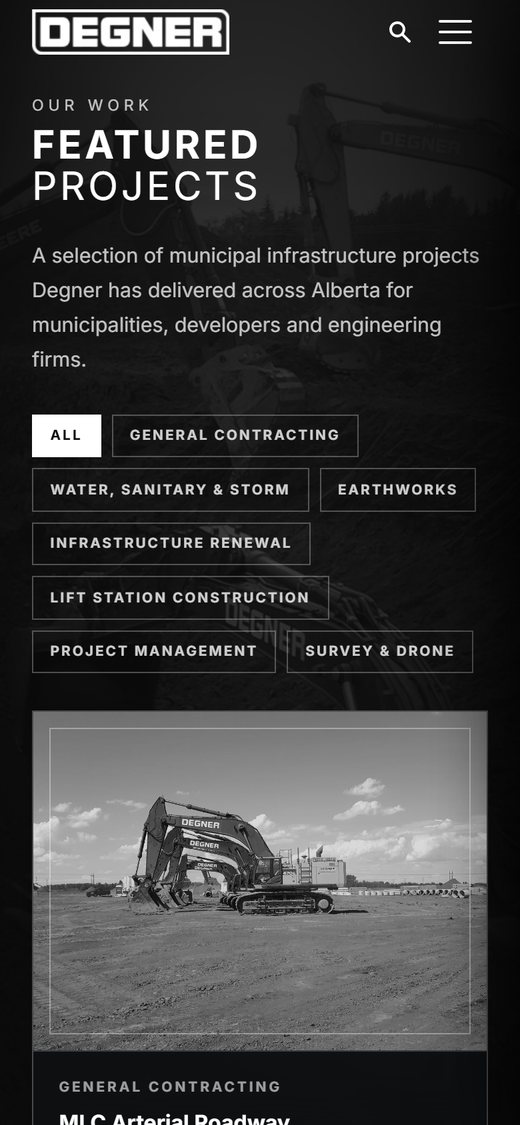
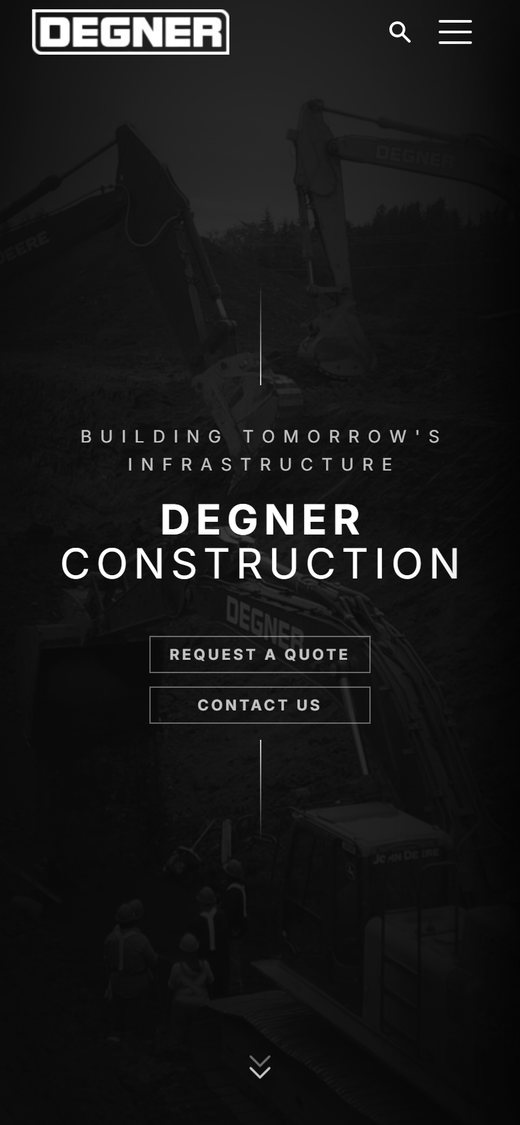
Phone mockup shows the Degner home page

diff --git a/services.html b/services.html
@@ -61,7 +61,7 @@
 <section class="tight" id="work"><div class="wrap">
   <h2 class="work-h">Recent work</h2>
   <article class="feature">
-    <div class="devices"><div class="browser"><div class="bar"><i></i><i></i><i></i><span>degner.ca</span></div><img src="assets/degner-site.jpg" alt="The new Degner Construction website: dark hero with excavators and the Degner logo" width="1600" height="900" loading="lazy"></div><div class="phone"><img src="assets/degner-mobile.jpg" alt="The Degner Construction projects page on a phone" width="520" height="1125" loading="lazy"></div></div>
+    <div class="devices"><div class="browser"><div class="bar"><i></i><i></i><i></i><span>degner.ca</span></div><img src="assets/degner-site.jpg" alt="The new Degner Construction website: dark hero with excavators and the Degner logo" width="1600" height="900" loading="lazy"></div><div class="phone"><img src="assets/degner-mobile.jpg" alt="The Degner Construction home page on a phone" width="520" height="1125" loading="lazy"></div></div>
     <div class="f-body">
       <img class="f-logo" src="assets/degner-logo.png" alt="Degner" width="120" height="28"><p class="f-tag"><span>Featured project</span><span class="f-status">Launching soon</span></p>
       <h2>Degner <em>Construction</em></h2>

diff --git a/index.html b/index.html
@@ -128,7 +128,7 @@
 
 <section class="teaser-sec"><div class="wrap">
   <a class="teaser" href="services.html#work">
-    <div class="devices"><div class="browser"><div class="bar"><i></i><i></i><i></i><span>degner.ca</span></div><img src="assets/degner-site.jpg" alt="Degner Construction home page" width="1600" height="900" loading="lazy"></div><div class="phone"><img src="assets/degner-mobile.jpg" alt="The Degner Construction projects page on a phone" width="520" height="1125" loading="lazy"></div></div>
+    <div class="devices"><div class="browser"><div class="bar"><i></i><i></i><i></i><span>degner.ca</span></div><img src="assets/degner-site.jpg" alt="Degner Construction home page" width="1600" height="900" loading="lazy"></div><div class="phone"><img src="assets/degner-mobile.jpg" alt="The Degner Construction home page on a phone" width="520" height="1125" loading="lazy"></div></div>
     <div class="t-body"><p class="eyebrow">Recent work</p><h2>Degner <em>Construction</em></h2><p>A new hand-built site for an Alberta infrastructure contractor, replacing an older WordPress site. Launching soon.</p><span class="t-link">See the project &rarr;</span></div>
   </a>
 </div></section>
